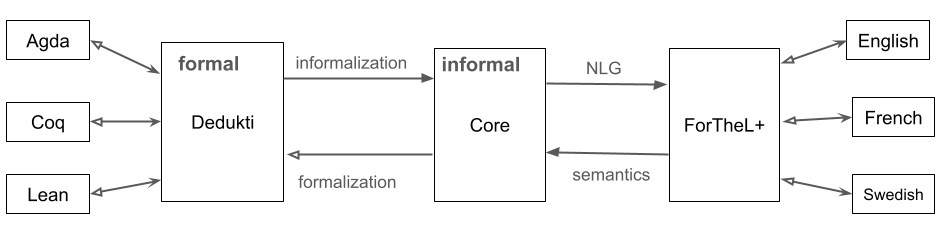
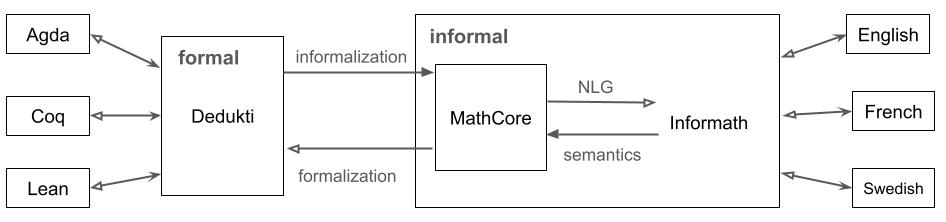
renamed Core to MathCore and ForTheLPlus to Informath

diff --git a/v3/README.md b/v3/README.md
@@ -16,18 +16,18 @@ Informath started in early 2024, but it has a background of a long tradition of 
 An insight that has guided GF from the beginning is that informalization is easier than autoformalization, because it goes from a restricted, semantically explicit formal notation to an open-ended, semantically often implicit natural language. Recent developments in AI have suggested something similar: one can "train" language models to formalize by providing them data generated by automatic informalization. Informath can become a useful source of such data. But its primary purpose is to help the users of formal proof systems to create and document their content.
 
 
-## The languages Core, Dedukti, and ForTheL
+## The languages MathCore, Dedukti, and Informath
 
 This directory contains
-- Core, an English CNL for mathematics
-- FortTheL+, an extension of Core
+- MathCore, a minimal English CNL for mathematics
+- Informath, an extension of Core with alternative expressions
 - a grammar, parser, and generator for the proof system [Dedukti](https://deducteam.github.io/)
-- a translator from Core to Dedukti and vice-versa
+- a translator from MathCore to Dedukti and vice-versa
 - partial grammars and generators to Agda and Lean (Lean forthcoming)
-- translations between Core and ForTheL+ (forthcoming)
+- translations between MathCore and Informath (in progress)
 
 [Dedukti](https://deducteam.github.io/) is a minimalistic logical framework aimed as an interlingual between different proof systems such as Agda, Coq, Isabelle, and Lean.
-The purpose is to help share formalizations between these systems.
+Its purpose is to help share formalizations between these systems.
 Dedukti comes with an efficient proof checker and evaluator.
 Translations from many other proof system to Dedukti have been built, and this work is ongoing.
 
@@ -37,98 +37,102 @@ Thereby, it is also similar to the ALF system of 1990's and to the abstract synt
 
 Due to its simplicity and expressivity, together with an existing implementation and conversions, Dedukti is a promising choice for the "core type theory" in the Informath project, whose original picture is shown above.
 
-In the same way, the Core language defined in this directory is meant to be the "core abstract syntax" of Informath.
+In the same way, the MathCore language defined in this directory is meant to be the "core abstract syntax" of Informath.
 
-In the current set-up, the translations go between Core and Dedukti, ignoring the extensions shown in the above picture. This may indeed be the best way to go. On the type theory side, translations have already been established between other frameworks and Dedukti, and there is no need to extend the interlingual type theory for the purpose of these translations. On the natural language side, the option we will investigate is to keep Core and "extensions" as two separate languages, where the extensions are provided by the [ForTheL](http://nevidal.org/download/forthel.pdf)-based [grammar](../forthel/) in "version 2" of this project. This gives us an updated picture of Informath:
+In the current set-up, the translations go between MathCore and Dedukti, ignoring the extensions shown in the above picture. This seems to be a good way to go. On the type theory side, translations have already been established between other frameworks and Dedukti, and there is no need to extend the interlingual type theory for the purpose of these translations. On the natural language side, the option we first investigated was to keep MathCore and "extensions" as two separate languages, where the extensions are provided by the [ForTheL](http://nevidal.org/download/forthel.pdf)-based [grammar](../forthel/) in "version 2" of this project. However, the long distance between the abstract syntaxes of MathCore and ForTheL soon made us to change our mind and replace ForTheL by a proper extension (in the technical sense of GF) of MathCore, now called Informath.
+
+This gives us an updated picture of the Informath project:
 
 ![Informath](./informath-dedukti-core.png)
 
-This directory covers the "formal" and "informal" boxes and "informalization" and "formalization" operations. ForTheL+ refers to the GF implementation of ForTheL that adds some extensions and is open for new ones to cover more of mathematical language.It differs from the original ForTheL in a few ways:
+This directory covers the "formal" and "informal" boxes and all the operations marked by arrows.
 
-- **Grammaticality**: ForTheL+ follows the agreement rules of English (and other languages) instead of allowing free variation of e.g. singular and plural forms; this makes it better usable as the target of informalization.
-- **Ambiguity**: ForTheL prevents syntactic ambiguities by means of devices such as brackets. ForTheL+ tries to capture all syntactic ambiguities that exist in natural language, and delegates it to the logical framework to resolve them by semantic clues. This is in line with the findings in [*The language of Mathematics*](https://link.springer.com/book/10.1007/978-3-642-37012-0) by Mohan Ganesalingam.
-- **LaTeX**: The original ForTheL is plain text, whereas ForTheL+ (like some other later versions of ForTheL) allows the full use of LaTeX similar to usual mathematical documents; this is one of the
-- **Extensions**: ForTheL+ is open for extensions with new forms of expression when encountered in mathematical text. Because of the design of Informath, every extension should be equipped with a new semantic rule that converts it to Core.
-- **Omissions**: ForTheL+ is not guaranteed to cover all of the original ForTheL. In particular, constructs that differ from grammatical English are usually omitted.
-- **Multilinguality**: ForTheL+ has several concrete syntaxes sharing a common abstract syntax. 
+While being very much inspired by ForTheL, the Informath grammar differs from the original ForTheL in a few ways:
 
-As we will see, the Core language shares some features with ForTheL+: grammaticality, LaTeX support, and extensibility (with a lexicon). But the other features are delegated to ForTheL+ via the NLG function.
+- **Grammaticality**: Informath follows the agreement rules of English (and other languages) instead of allowing free variation of e.g. singular and plural forms; this makes it better usable as the target of informalization.
+- **Ambiguity**: ForTheL prevents syntactic ambiguities by means of devices such as brackets. Informath tries to capture all syntactic ambiguities that exist in natural language, and delegates it to the logical framework to resolve them by semantic clues. This is in line with the findings in [*The language of Mathematics*](https://link.springer.com/book/10.1007/978-3-642-37012-0) by Mohan Ganesalingam.
+- **LaTeX**: The original ForTheL is plain text, whereas Informath (like some other later versions of ForTheL) allows the full use of LaTeX similar to usual mathematical documents; this is one of the
+- **Extensions**: Informath is open for extensions with new forms of expression when encountered in mathematical text. In ForTheL, new concepts can be defined, but the overall syntax is fixed. Because of the design of Informath, every extension should be equipped with a new semantic rule that converts it to MathCore.
+- **Omissions**: Informath is not guaranteed to cover all of the original ForTheL. In particular, constructs that differ from grammatical English are usually omitted.
+- **Multilinguality**: Informath will have several concrete syntaxes sharing a common abstract syntax, reusing the ForTheL grammars in v2. 
 
-## The design of Core
+The MathCore language shares some features with Informath: grammaticality, LaTeX support, and extensibility (with a lexicon). But the other features are delegated to Informath via the NLG function.
 
-Core is a minimalistic grammar for mathematical English. It is based on the following principles:
+## The design of MathCore
 
-- **Completeness**: all Dedukti code can be translated to Core.
-- **Non-ambiguity**: all Core text has a unique parse tree and a unique translation to Dedukti.
-- **Losslessness**: Core is a lossless representation of Dedukti; that is, all Dedukti code translated to Core can be translated back to the same Dedukti code (module some differences yet to be specified).
-- **Traceability**: Dedukti code and Core text can be aligned part by part.
-- **Grammaticality**: Core text is grammatically correct English (with mathematical symbols and some mark-up to prevent ambiguity). 
-- **Naturalness**: Core supports natural expressions for mathematical concepts using nouns, adjectives, verbs, and other structures conventionally used in mathematical text.
-- **Extensibility**: Core can be extended with lexical information assigning English verbalizations to Dedukti identifiers.
+MathCore is a minimalistic grammar for mathematical English. It is based on the following principles:
+
+- **Completeness**: all Dedukti code can be translated to MathCore.
+- **Non-ambiguity**: all MathCore text has a unique parse tree and a unique translation to Dedukti.
+- **Losslessness**: Core is a lossless representation of Dedukti; that is, all Dedukti code translated to MathCore can be translated back to the same Dedukti code (module some differences yet to be specified).
+- **Traceability**: Dedukti code and MathCore text can be aligned part by part.
+- **Grammaticality**: MathCore text is grammatically correct English (with mathematical symbols and some mark-up to prevent ambiguity). 
+- **Naturalness**: MathCore supports natural expressions for mathematical concepts using nouns, adjectives, verbs, and other structures conventionally used in mathematical text.
+- **Minimality**: MathCore is defined to have exactly one way to express each Dedukti judgement. Alternative ways are provided in Informath via NLG. Typically, the unique way is the most straightforward one. For example, complex mathematical expressions are given in their verbal forms ("the sum of x and y") rather than formulas ("x + y"), because formulas are not available when any of the constituents if not formal ("x + the successor of y").
+- **Extensibility**: MathCore can be extended with lexical information assigning English verbalizations to Dedukti identifiers.
 
 The following propertes are, however, *not* expected:
 
-- **Type correctness**: Core text can be semantically invalid, leading to syntactically correct Dedukti code that is rejected by Dedukti's type checker.
-- **Fluency**: Core text can be repetitive and even hard to read; making it better is delegated to ForTheL+ via the NLG component.
-- **Compositionality**: The translation between Dedukti and Core is not compositional in the strict sense of GF, as the two languages have different abstract syntaxes. For example, Core supports the aggregation of conjuncts and function argument lists, without which it would be even less readable; and the basic type system is richer than in Dedukti, for instance distinguishing between expressions that represent kinds, objects, and propositions.
-- **Natural language input**: while the grammar of Core is reversible, it is tedious to write Core. It is intended to be produced indirectly: by conversion from Dedukti on one hand and ForTheL+ on the other.
-- **Multilinguality**: Core has been implemented by GF RGL and is therefore ready for concrete syntax in other languages than English. But since the purpose of Core is not to be the end point, we deem it sufficient to build CoreEng and cover other languages via ForTheL+.
+- **Type correctness**: MathCore text can be semantically invalid, leading to syntactically correct Dedukti code that is rejected by Dedukti's type checker.
+- **Fluency**: MathCore text can be repetitive and even hard to read; making it better is delegated to ForTheL+ via the NLG component.
+- **Compositionality**: The translation between Dedukti and MathCore is not compositional in the strict sense of GF, as the two languages have different abstract syntaxes. For example, Core supports the aggregation of conjuncts and function argument lists, without which it would be even less readable; and the basic type system is richer than in Dedukti, for instance distinguishing between expressions that represent kinds, objects, and propositions.
+- **Natural language input**: while the grammar of MathCore is reversible, it is tedious to write MathCore. It is intended to be produced indirectly: by conversion from Dedukti on one hand and Informath on the other.
+- **Multilinguality**: MathCore has been implemented by GF RGL and is therefore ready for concrete syntax in other languages than English. 
 
 The rationale of this design is modularity and an optimal use of existing resources:
 
 - Type checking is delegated to Dedukti.
 - Conversions to different frameworks are also delegated to Dedukti.
-- Variation of natural language input and output is delegated to ForTheL+.
-- Support for different natural languages is also delegated to ForTheL+ (and, ultimately, to GF RGL).
+- Variation of natural language input and output is delegated to Informath.
 
 ## Implementation
 
 The following programming languages have been used so far in Informath:
-- **GF**: [Grammatical Framework](https://www.grammaticalframework.org/) used for implementing Core and ForTheL+, maximally using its Resource Grammar Library (RGL).
-- **Haskell**: used for writing conversions between formal and informal, via embedded GF grammars in the GADT format (Generalized Algebraic Datatypes) supporting almost compositional functions.
+- **GF**: [Grammatical Framework](https://www.grammaticalframework.org/) used for implementing MathCore and Informath, maximally using its Resource Grammar Library (RGL).
+- **Haskell**: used for writing conversions between formal and informal, via embedded GF grammars in the GADT format (Generalized Algebraic Datatypes) supporting almost compositional functions in NLG.
 - **BNFC**: [BNF Converter](https://bnfc.digitalgrammars.com/), used for implementing Dedukti. The implementation includes a parser, a printer, and an abstract syntax in Haskell, all generated from [this BNF grammar](./typetheory/Dedukti.bnf). Also used for the fragments of Agda and Lean addressed in the project.
-- **Python**: used for generating GF lexica from term dictionaries, in particular [Wikidata](https://www.wikidata.org/). The lexica are currently available as a part of ForTheL+, but the English version will have a connection to Core as well. 
+- **Python**: used for generating GF lexica from term dictionaries, in particular [Wikidata](https://www.wikidata.org/). These lexica are currently available as a part of ForTheL in v2. 
 
 ## Usage
 
 It is too early to document the usage of this software, because its user interface has not yet stabilized.
-The emerging interface is in the file `Informath.hs`. Its two main modes are interactive shell and conversion of Dedukti files to Core:
+The emerging interface is in the file `Informath.hs`. Its two main modes are interactive shell and conversion of Dedukti files to MathCore and Informath:
 ```
-  $ runghc Informath.hs <file.dk>?
+  $ runghc RunInformath.hs <file.dk>?
 ```
 The shell has following functionalities:
 ```
-  > <dedukti_jmt>  # convert Dedukti to Core
-  > ?<core_jmt>  # convert Core to Dedukti
-  > =<dedukti_jmt>  # roundtrup Dedukti to Core to Dedukti
-  > gr  # generate random Core jmt and convert to Dedukti
+  > <dedukti_jmt>  # convert Dedukti to Informath
+  > ?<informath_jmt>  # convert Informath to Dedukti
+  > =<dedukti_jmt>  # roundtrup Dedukti to Informath to Dedukti
+  > gr  # generate random Informath jmt and convert to Dedukti
 ```
-In order for this to work, you need to compile the Dedukti and the Core grammars:
+In order for this to work, you need to compile the Dedukti and the Informath grammars:
 ```
-  $ make Core.pgf
+  $ make Informath.pgf
   $ make Dedukti
   $ ln -s typetheory/Dedukti
-  $ ln -s Core/Core.hs
+  $ ln -s informath/Informath.hs
 ```
 An example of readily available test case is
 ```
-  $ runghc Informath.hs nat.dk
+  $ runghc RunInformath.hs nat.dk
 ```
-If you pipe this to `grep -v "#"`, you can see the bare Core output.
+If you pipe this to `grep -v "#"`, you can see the bare MathCore and Informath output.
 
 ## Creating lexical rules
 
 The lexicon part (files Constants*) is expected to give verbalizations to defined constants in .dk files. This part can be dynamically generated with commands
 ```
   $ runghc MkConstants <file>.dkgf
-  $ make Core.pgf
+  $ make Informath.pgf
 ```
 which for instance from [nat.dkgf](./nat.dkgf) generates three files:
 - [Constants.hs](./Constants.hs)
 - [Constants.gf](./Core/Constants.gf)
 - [ConstantsEng.gf](./Core/ConstantsEng.gf)
 
-and compiles Core.pgf with them. Some more information is given in the file [MkConstants.hs](./MkConstants.hs) and will also appear here when the process has stabilized.
+and compiles Informath.pgf with them. Some more information is given in the file [MkConstants.hs](./MkConstants.hs) and will also appear here when the process has stabilized.
 
 ## Generating Agda
 
@@ -142,7 +146,8 @@ The result from [nat.dk](./nat.dk) typechecks in Agda.
 
 ## ToDo
 
-- complete the two conversions ( close to complete, but can make better use of the Exp/Kind/Prop distinction)
-- link Core with ForTheL+ by translations back and forth
+- complete the MathCore-Dedukti conversions (close to complete, but can make better use of the Exp/Kind/Prop distinction)
+- complete the MathCore-Informath conversions
 - generate Lean code
+- add concrete syntaxes to new languages
 
